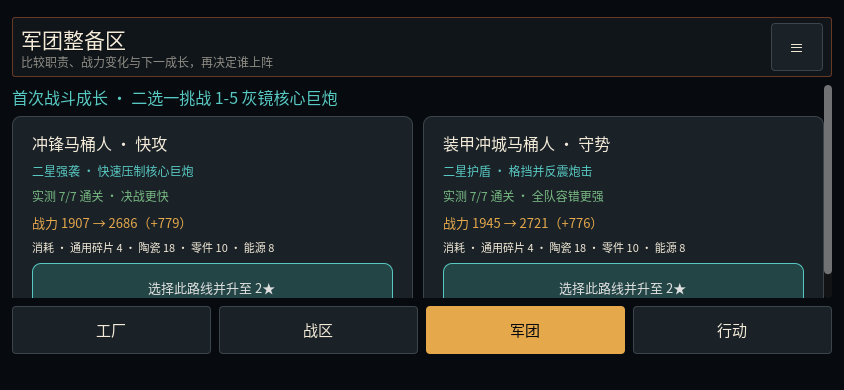
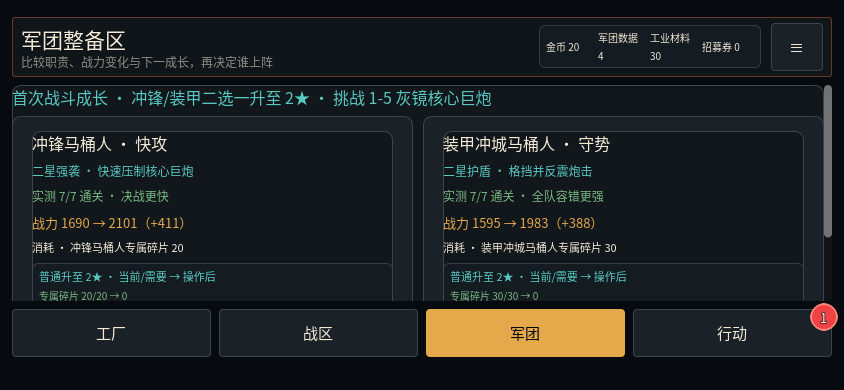
feat: clarify the first two-star choice

diff --git a/project-a/tools/release_audit.py b/project-a/tools/release_audit.py
@@ -12,6 +12,7 @@ import argparse
 import gzip
 import hashlib
 import json
+import re
 import shutil
 import subprocess
 import sys
@@ -164,6 +165,15 @@ def _check_source() -> tuple[list[str], list[str], dict]:
             passed.append(label)
         else:
             failed.append(f"missing project setting: {snippet}")
+    project_version_match = re.search(
+        r'^config/version="([^"]+)"$',
+        project_text,
+        flags=re.MULTILINE,
+    )
+    project_version = project_version_match.group(1) if project_version_match else ""
+    evidence["project_version"] = project_version
+    if not project_version:
+        failed.append("project.godot missing application config/version")
 
     release_dir = PROJECT_ROOT / "release"
     for relative in REQUIRED_RELEASE_FILES:
@@ -186,6 +196,12 @@ def _check_source() -> tuple[list[str], list[str], dict]:
                 passed.append("version.json declares privacy claim")
             else:
                 failed.append("version.json missing privacy claim")
+            if project_version and version_data.get("version") == project_version:
+                passed.append("version.json matches project.godot application version")
+            else:
+                failed.append(
+                    "version.json version does not match project.godot application version"
+                )
         except json.JSONDecodeError as exc:
             failed.append(f"version.json is invalid JSON: {exc}")
 

diff --git a/docs/references/constraints/first-30m-contract.md b/docs/references/constraints/first-30m-contract.md
@@ -216,10 +216,11 @@ Boss 压炮达到阈值时，领域结果仍在当 tick 生效并取消炮击，
 
 行动六先进入首次成长专注态，用反攻获得的军团数据完成一条二星路线；随后独立打开三座工业产线
 的建造选择，使用工业材料完成建设并收取首批产出。专注态在 844×390 首屏并列展示冲锋快攻与
-装甲守势，包含战术结果、7-seed 验证、真实 `CombatPower` 前后值和同一领域成本，两个升星
-按钮均可操作，不显示招募、派驻等无关分支。证据为 `run_first_growth_flow_tests.gd`、
+装甲守势，包含战术结果、7-seed 验证、真实 `CombatPower` 前后值和同一领域成本；战报入口明确
+写为“比较冲锋/装甲2★路线”，成长页再次说明这是二选一升星，两个升星按钮均可操作，不显示
+招募、派驻等无关分支。证据为 `run_first_growth_flow_tests.gd`、
 `artifacts/ui-first-industrial-choice-844x390.png` 与
-`artifacts/ui-first-growth-choice-844x390.png`。
+`artifacts/ui-first-growth-choice-844x390.png`、`artifacts/ui-first-growth-choice-568x320.png`。
 
 升星命令成功后不恢复成完整成员管理页，而进入“成长已生效”验证态：显示玩家所选英雄与路线、
 真实军团/推荐战力、对应的 5 秒巨炮技能时机和唯一“验证成长 · 进攻 1-5”按钮。1-5 失败结算

diff --git a/docs/references/constraints/implementation-status.md b/docs/references/constraints/implementation-status.md
@@ -69,6 +69,11 @@ related:
   工业材料来源说明现只在行动六双线成长期间投影到右侧下一行动区，完成教学后从战报退出；普通
   胜利也不再重复生成“已占领、可连战”的占位复盘。`ui-counterattack-proof-844x390.png`、
   `ui-counterattack-proof-568x320.png` 与两张 Tier 2 结果图覆盖教学态和后续常态。
+- 行动六的战报入口已从泛化的“比较两名援军”改为“比较冲锋/装甲2★路线”，军团专注页再次
+  明确二选一升星，并在 844×390 与 568×320 首屏同时保留两条路线的质变、7-seed 证据、
+  战力、专属碎片成本及确认按钮；截图脚本也已改用真实基础图纸研发命令，不再依赖旧快捷入口。
+- 本地发布审计现在要求 `release/version.json` 与 `project.godot` 的应用版本完全一致，避免
+  可复现候选清单、运行时设置和随包发布说明出现版本漂移。
 - 工厂点击建筑后优先展示该设施详情，资源设施、维修中心和研究所增加克制的运转动效；这些动效
   只属于表现层，不参与产出结算，并在“减少动态”开启时保持静态。
 - 2026-07-26 review 已移除战斗 HUD 的额外 0.15 秒轮询，改为复用 `BattleWorld` 每个确定性 tick
